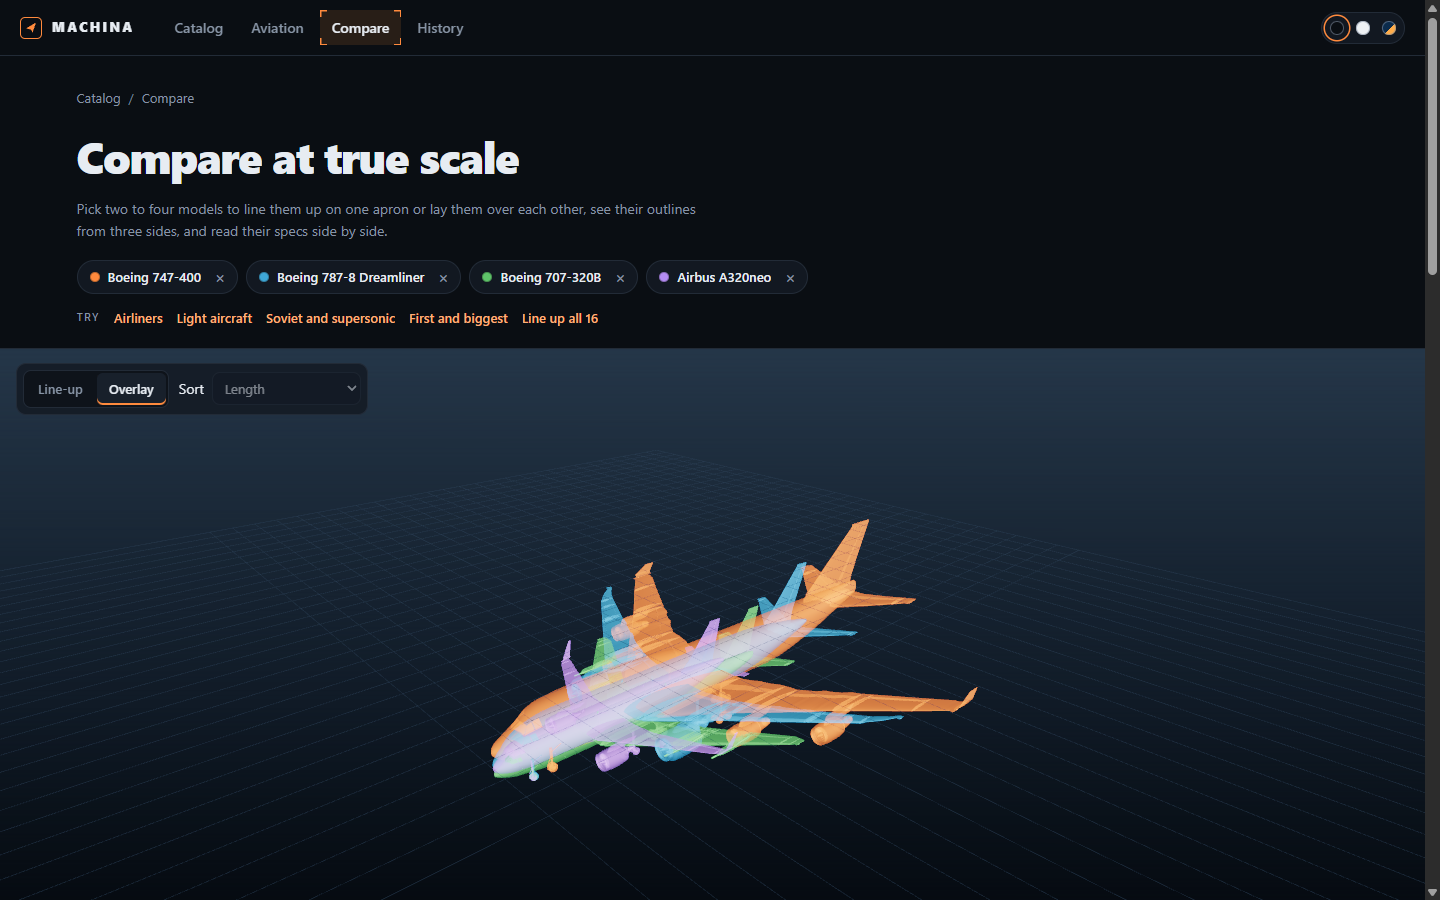
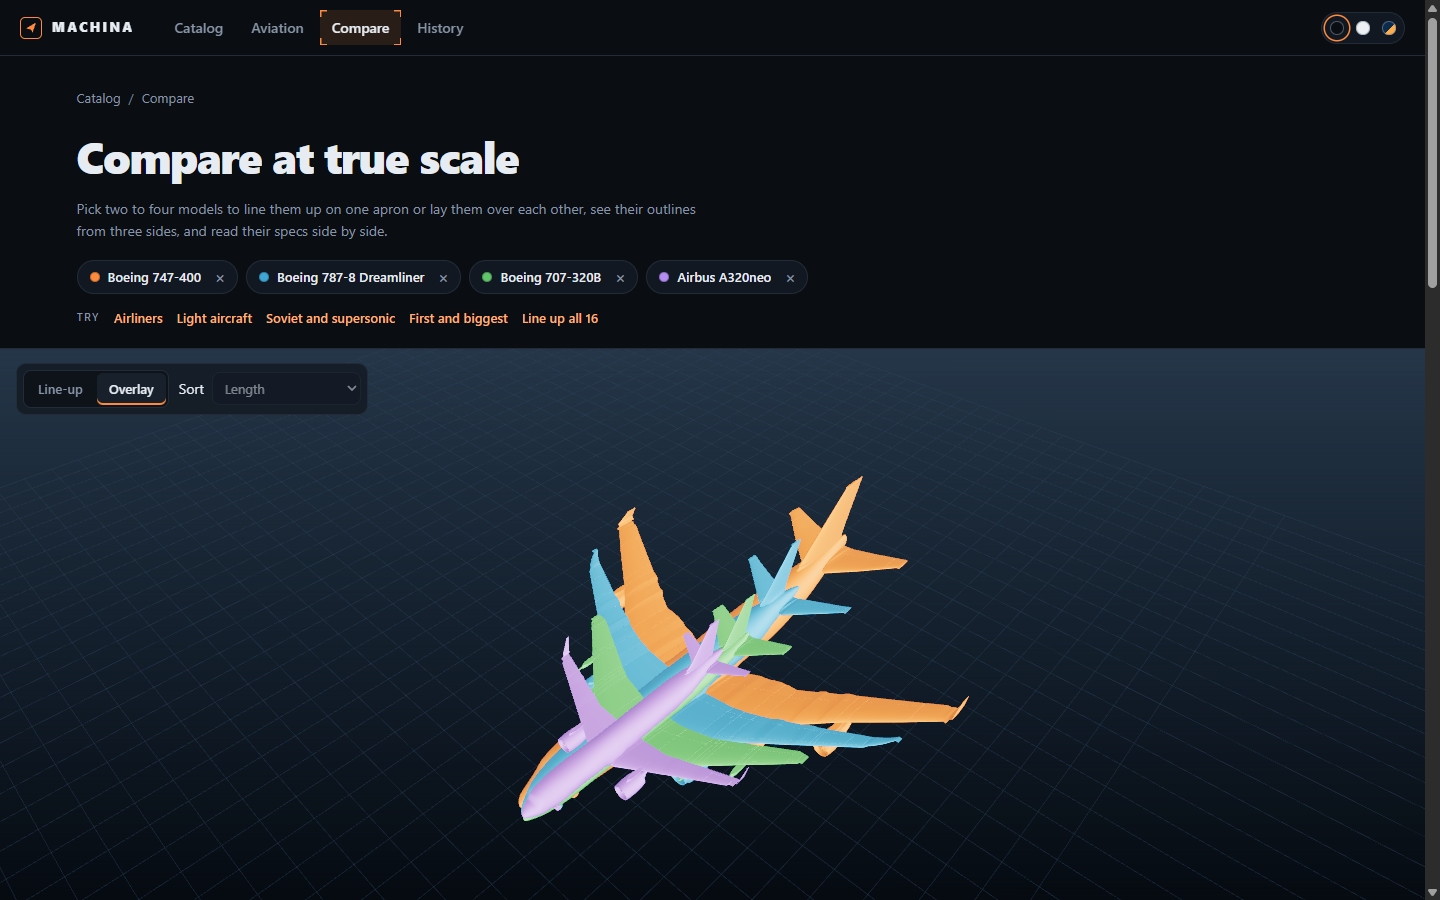
Overlay as a stack: each model one solid color, largest at the bottom and smallest on top, seen from a higher camera

Changed region(s): [[0.3438, 0.5289, 0.6875, 0.9333], [0.0, 0.9956, 0.0312, 1.0]]

diff --git a/src/compare.js b/src/compare.js
@@ -70,18 +70,51 @@ function apronLabel(name, detail, color, width, size) {
   return plate;
 }
 
-function tintFor(color) {
-  return new THREE.MeshStandardMaterial({ color, transparent: true, opacity: 0.32, depthWrite: false, side: THREE.DoubleSide, roughness: 0.7, metalness: 0 });
+// Overlay style: a stack. Each model is one matte color, drawn whole from the largest at the
+// bottom to the smallest on top, so every model stays visible and the larger ones show only where
+// they reach past the smaller. Interiors, lights and antennas are left out.
+const OVERLAY_HIDE = new Set(['interior', 'lights', 'avionics']);
+
+function systemOf(o) {
+  for (let p = o; p; p = p.parent) if (p.userData?.part) return p.userData.system;
+  return null;
 }
 
-/** Swap a model's materials for one see-through color, or put its own back. */
-function tint(obj, material) {
-  obj.traverse(o => {
-    if (!o.isMesh || o.userData.cmpLabel) return;
+/**
+ * Paint a model in one solid color at a place in the stack (layer 0 is drawn first), or put
+ * its own look back (color null). The stack is drawn in the transparent pass, after the ground
+ * and grid, with the depth buffer cleared before each layer, so each layer is drawn whole on top.
+ */
+function stackPaint(obj, color, layer = 0) {
+  const solid = color && new THREE.MeshStandardMaterial({ color, roughness: 0.6, metalness: 0.05, side: THREE.DoubleSide, transparent: true, opacity: 1, depthWrite: true });
+  const meshes = [];
+  obj.traverse(o => { if (o.isMesh && !o.userData.cmpLabel && !o.userData.cmpClear) meshes.push(o); });
+  for (const o of meshes) {
     o.userData.cmpSolid ??= o.material;
-    o.material = material ? (Array.isArray(o.userData.cmpSolid) ? o.userData.cmpSolid.map(() => material) : material) : o.userData.cmpSolid;
-    o.castShadow = !material;
-  });
+    o.userData.cmpVisible ??= o.visible;
+    if (!color) {
+      o.material = o.userData.cmpSolid;
+      o.visible = o.userData.cmpVisible;
+      o.castShadow = true;
+      o.renderOrder = 0;
+      continue;
+    }
+    if (OVERLAY_HIDE.has(systemOf(o))) { o.visible = false; continue; }
+    o.material = Array.isArray(o.userData.cmpSolid) ? o.userData.cmpSolid.map(() => solid) : solid;
+    o.castShadow = false;
+    o.renderOrder = 2 + layer * 2;
+  }
+}
+
+/** Clears the depth buffer just before a layer of the stack, so that layer is drawn whole. */
+function depthClear(layer) {
+  const m = new THREE.Mesh(new THREE.PlaneGeometry(0.001, 0.001), new THREE.MeshBasicMaterial({ colorWrite: false, depthWrite: false, transparent: true }));
+  m.frustumCulled = false;
+  m.renderOrder = 1 + layer * 2;
+  m.userData.cmpClear = true;
+  m.onBeforeRender = renderer => renderer.clearDepth();
+  m.raycast = () => {};
+  return m;
 }
 
 function disposeDeep(obj) {
@@ -149,12 +182,14 @@ export function createCompare(ctx) {
     group.name = 'compare';
     const objs = current.objs;
     if (current.mode === 'overlay') {
-      for (const m of current.sel) {
+      // Largest footprint at the bottom of the stack, smallest on top, noses on one point.
+      const area = m => { const b = objs.get(m.id).userData.cmpBox; return (b.max.x - b.min.x) * (b.max.z - b.min.z); };
+      [...current.sel].sort((a, b) => area(b) - area(a)).forEach((m, layer) => {
         const obj = objs.get(m.id);
         obj.position.set(-obj.userData.cmpBox.min.x, 0, 0);
-        tint(obj, tintFor(colorOf(m)));
-        group.add(obj);
-      }
+        stackPaint(obj, colorOf(m), layer);
+        group.add(obj, depthClear(layer));
+      });
       viewer.setAmbientOcclusion(false);
     } else {
       const list = sortedSel();
@@ -174,7 +209,7 @@ export function createCompare(ctx) {
         const slot = Math.max(spans[i], minSlot);
         const cz = z + slot / 2;
         obj.position.set(-box.min.x, 0, cz - (box.min.z + box.max.z) / 2);
-        tint(obj, null);
+        stackPaint(obj, null);
         group.add(obj);
         const v = s.get(m);
         const detail = v == null ? 'no data' : `${s.label} ${fmt(v, current.sort)}${s.unit ? ` ${s.unit}` : ''}`;
@@ -185,12 +220,12 @@ export function createCompare(ctx) {
       });
       viewer.setAmbientOcclusion(true);
     }
-    viewer.setView(current.mode === 'lineup' ? 'apron' : null);
+    viewer.setView(current.mode === 'lineup' ? 'apron' : 'stack');
     viewer.setExplode(0);
     viewer.setXray(false);
     viewer.setPicking(false);
     // An overlay fits whole; a line-up fits its width to the stage, which brings a long row much closer.
-    viewer.setModel(group, { fit: current.mode === 'lineup' ? lineupFit(group) : (innerWidth < 760 ? 1 : 0.9) });
+    viewer.setModel(group, { fit: current.mode === 'lineup' ? lineupFit(group) : (innerWidth < 760 ? 0.9 : 0.76) });
   }
 
   /**

diff --git a/src/scene.js b/src/scene.js
@@ -279,8 +279,9 @@ export function createViewer(container) {
   }
 
   // Camera presets: null is the default three-quarter view. "apron" looks at a wingtip-to-wingtip
-  // line-up nose on and from above, so every model in it is about the same distance away.
-  const VIEWS = { front: [-1, 0.06, 0], side: [0, 0.06, 1], right: [0, 0.06, -1], top: [0.001, 1, 0], rear: [1, 0.12, 0], apron: [-0.62, 0.78, 0.1] };
+  // line-up nose on and from above, so every model in it is about the same distance away; "stack" is
+  // a higher three-quarter view for Compare's overlay, where the wing outlines matter most.
+  const VIEWS = { front: [-1, 0.06, 0], side: [0, 0.06, 1], right: [0, 0.06, -1], top: [0.001, 1, 0], rear: [1, 0.12, 0], apron: [-0.62, 0.78, 0.1], stack: [-0.55, 0.72, 0.5] };
   let view = null;
   let fit = 0.78;
   function frame() {

diff --git a/README.md b/README.md
@@ -20,7 +20,7 @@ Machina turns simulator models into explorable, named parts.
 |---|---|
 | **Named, selectable parts** | Rules in each model file map raw meshes to parts (left aileron, slats and Krueger flaps, main gear) grouped by system |
 | **True scale** | Every model is measured against its published length, span and height, and any gap is shown on the model page |
-| **Compare** | Line up two to four models wingtip to wingtip or overlay them at true scale, with a three-view silhouette sheet and a spec table of differences. "Line up all" puts every model on one apron, sorted by any spec (`#/compare/b747-400-parametric,a320neo-parametric`) |
+| **Compare** | Line up two to four models wingtip to wingtip or stack them on one spot at true scale, with a three-view silhouette sheet and a spec table of differences. "Line up all" puts every model on one apron, sorted by any spec (`#/compare/b747-400-parametric,a320neo-parametric`) |
 | **Three-view drawings** | An A3 sheet per model at a standard scale: side, front and top views projected from the geometry with hidden lines removed, fuselage sections, dimensions and a title block |
 | **Generated detail** | Parametric models get panel seams, framed windows, control surface gaps, fan blades, gear linkage, antennas and beacons from the data they already have |
 | **Liveries** | Every parametric model can wear Machina's colors, a factory demonstrator scheme, polished metal, factory primer or plain white. Presets swap colors only, so positions stay measured (`#/m/<id>?livery=metal`) |
@@ -36,8 +36,8 @@ Machina turns simulator models into explorable, named parts.
 | Concorde, detailed FlightGear model with its cockpit | X-ray view of the Tu-134A: cabin, cockpit and gear inside |
 | ![A3 three-view drawing of the Boeing 747-400 with sections and dimensions](drawings/b747-400-parametric.svg) | ![The catalog in the light theme](docs/catalog-light.png) |
 | A3 three-view drawing, projected from the model with hidden lines removed | The catalog in the light theme |
-| ![Four airliners lined up on one apron at true scale, labelled with their lengths](docs/compare-lineup.png) | ![The same four airliners overlaid in see-through colors, noses aligned](docs/compare-overlay.png) |
-| Compare: a line-up at true scale, sorted by length | Compare: the same four overlaid, noses aligned |
+| ![Four airliners lined up on one apron at true scale, labelled with their lengths](docs/compare-lineup.png) | ![The same four airliners stacked in solid colors, largest at the bottom, noses aligned](docs/compare-overlay.png) |
+| Compare: a line-up at true scale, sorted by length | Compare: the same four stacked, so each shows where it reaches past the smaller ones |
 
 ## Aircraft
 

diff --git a/ROADMAP.md b/ROADMAP.md
@@ -49,7 +49,7 @@ One milestone per week. Each milestone ends with everything committed, `npm test
 
 ## M3. Compare (done)
 
-- Two to four models lined up wingtip to wingtip on one apron, or overlaid on one spot in see-through colors, at true scale
+- Two to four models lined up wingtip to wingtip on one apron, or stacked on one spot in solid colors (largest at the bottom), at true scale
 - Spec table with each value against the first model picked, the largest value marked and rows that agree dimmed
 - A three-view silhouette sheet at one scale: side and front on a shared ground line, top under the side view
 - "Line up all": every listed model on one apron, sorted by length, span, height, weight, speed or first flight
